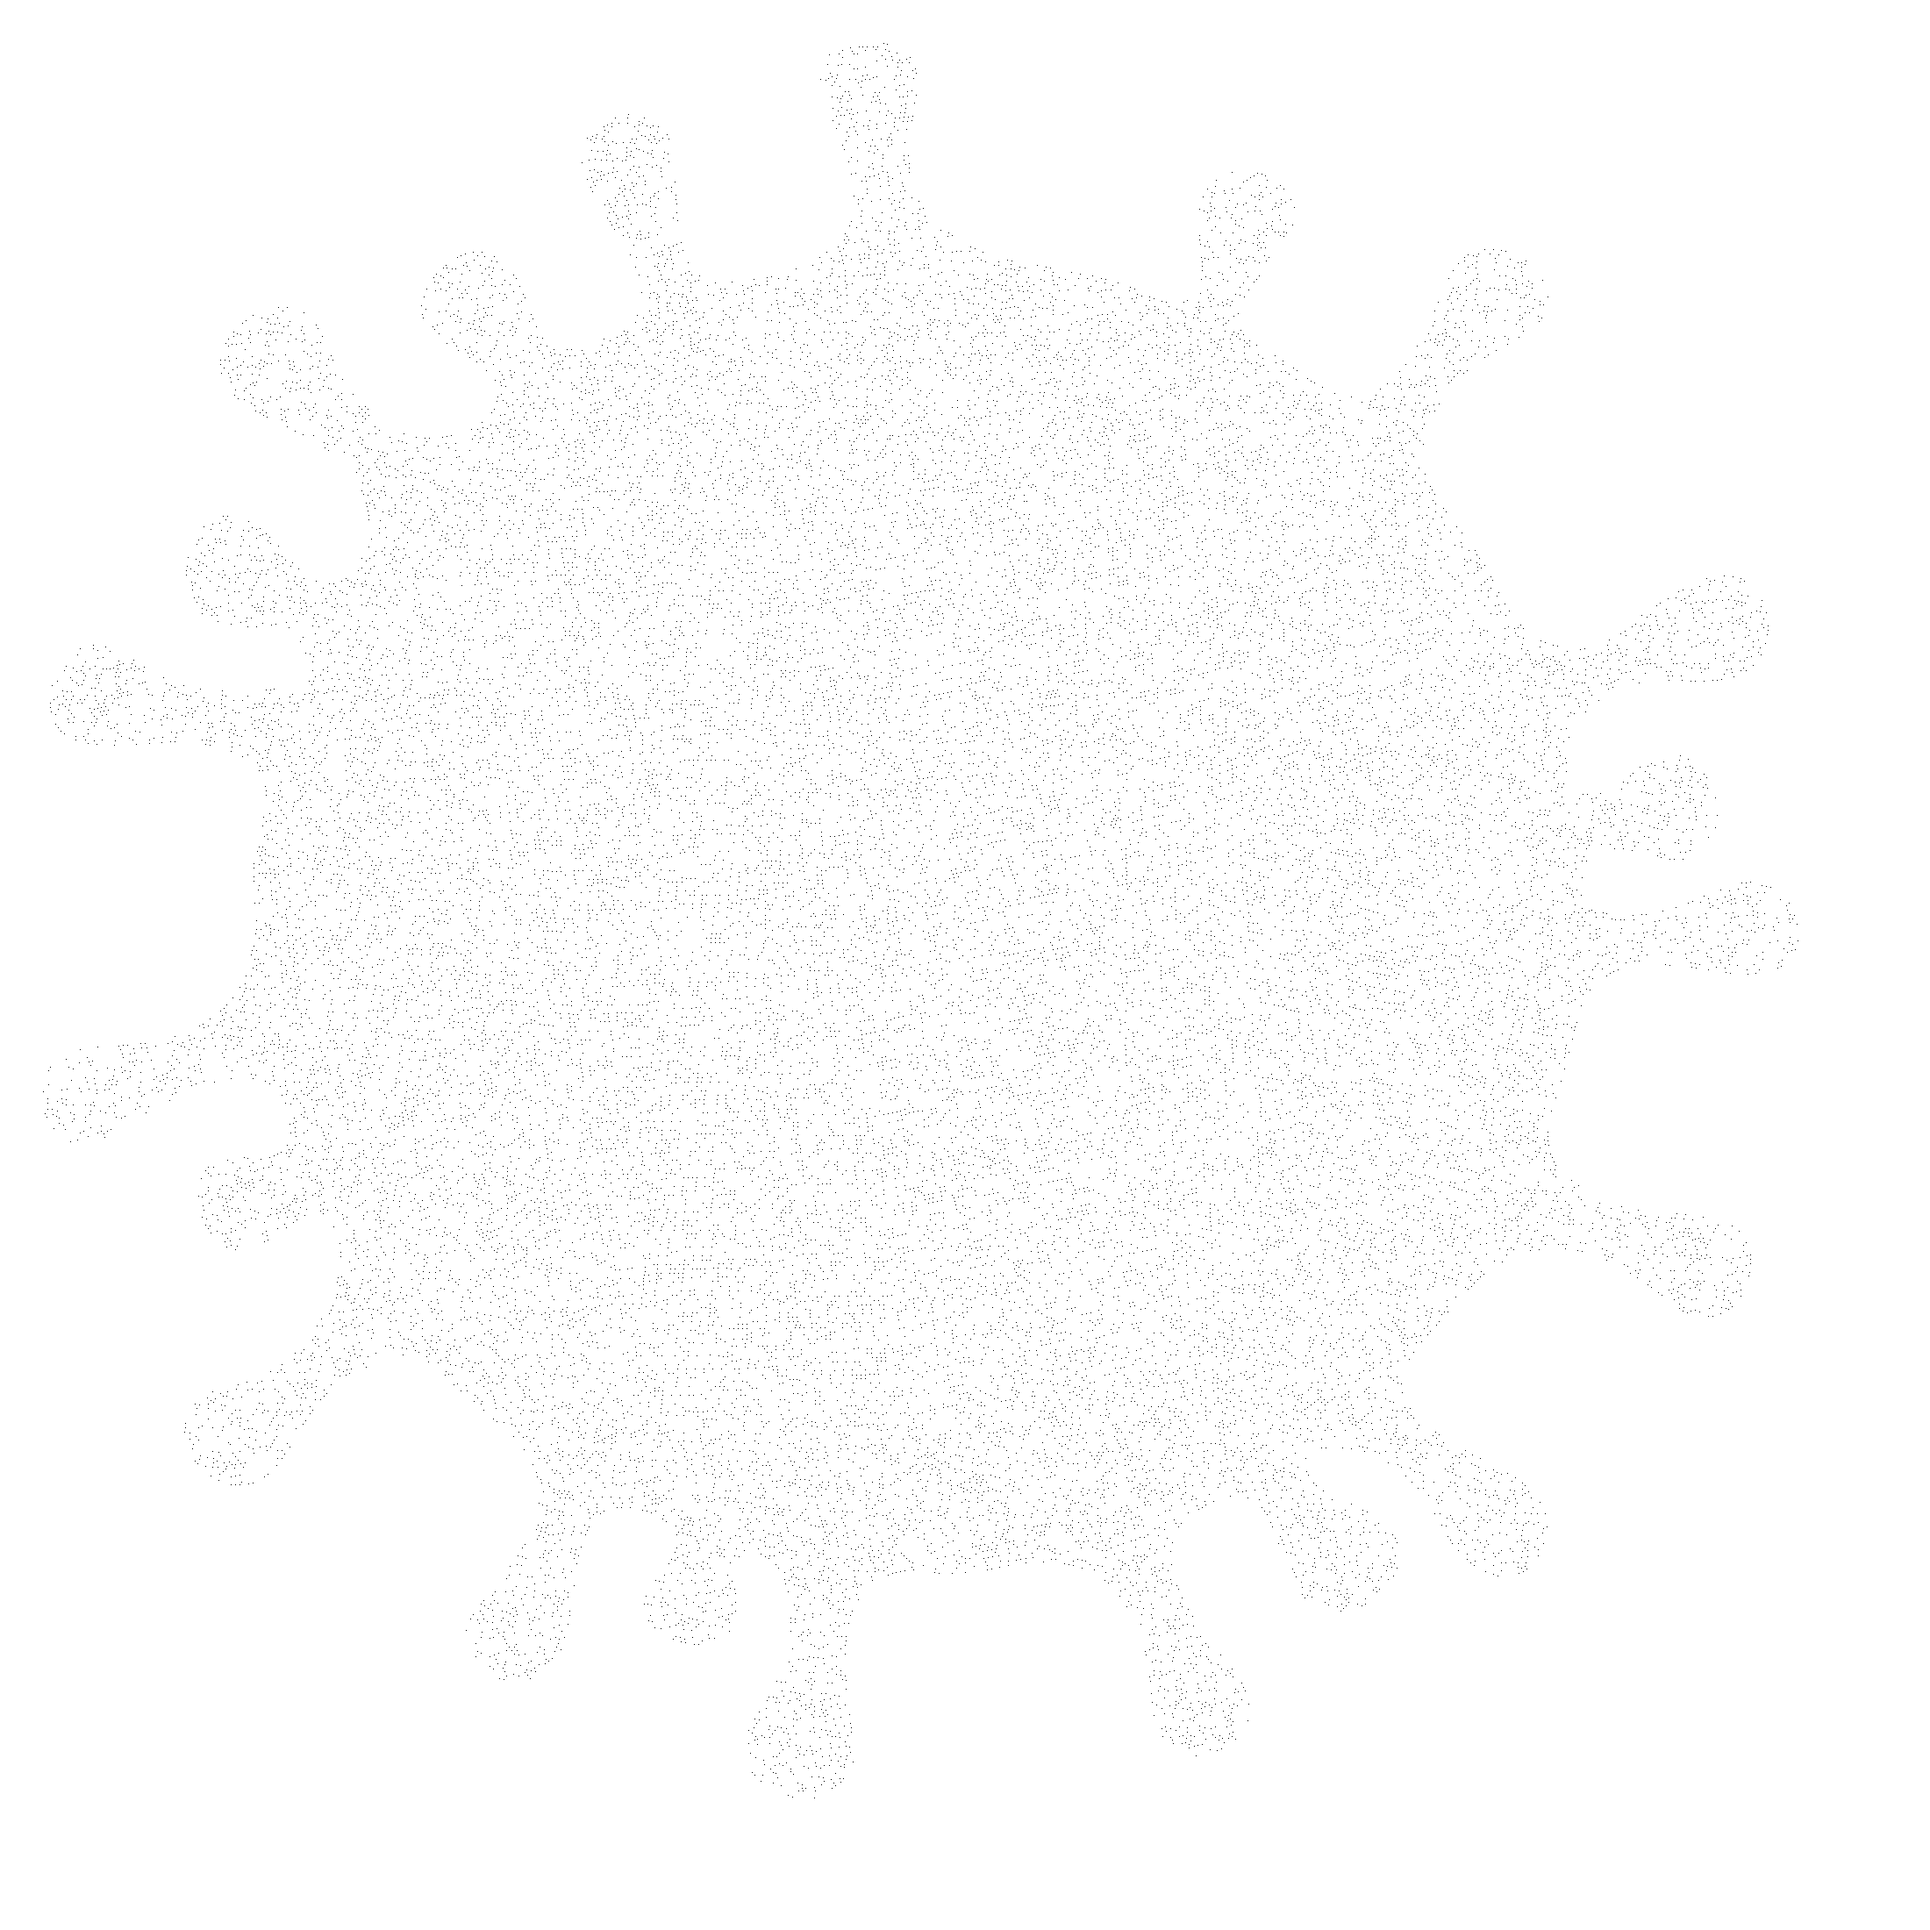
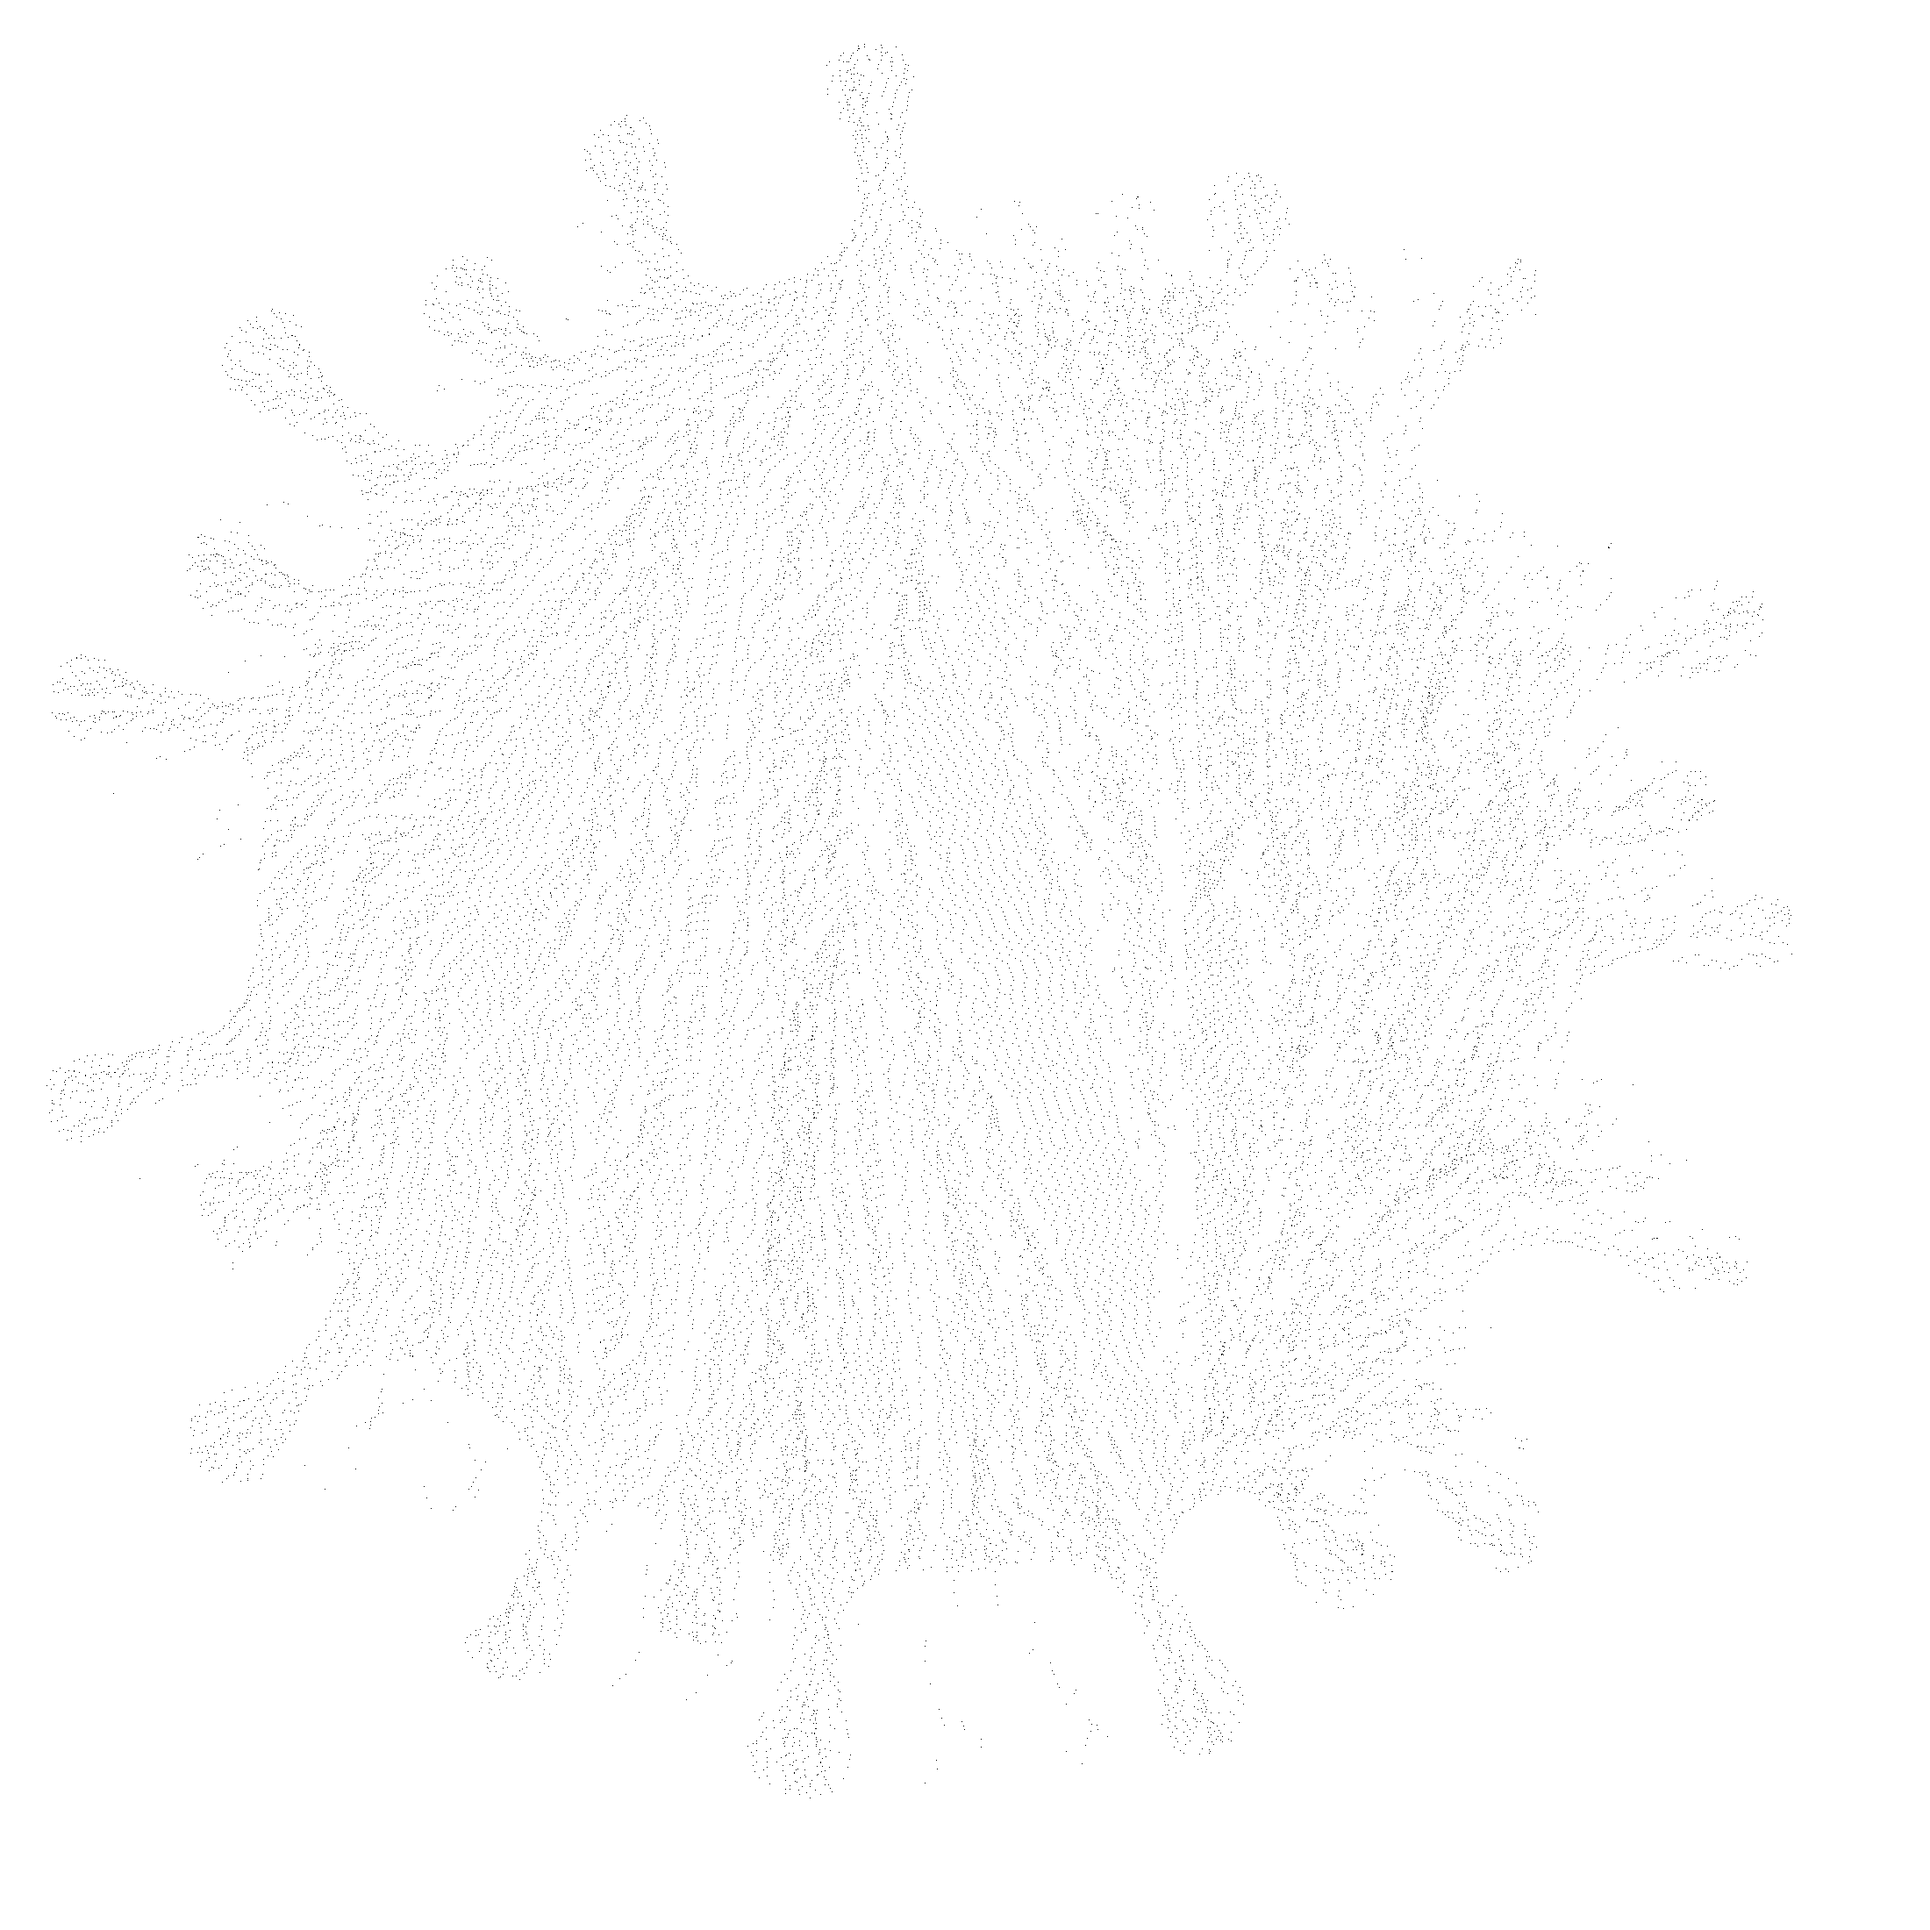
triangle center

diff --git a/generator/dots_remover.py b/generator/dots_remover.py
@@ -10,13 +10,29 @@ f = open("dots.txt", "r")
 for l in f.readlines():
     _xy += [tuple(map(float, l.split(' ')[:2]))]
 
-for _ in range(len(_xy)-wanna_dots):
-    _xy.pop(random.randint(0, len(_xy)))
+print("Parsed points: {0}".format(len(_xy)))
+# for _ in range(len(_xy)-wanna_dots):
+#     _xy.pop(random.randint(0, len(_xy)-1))
+
+for_size = (len(_xy)//3)*3
+print(for_size)
+__xy = []
+for i in range(0, for_size, 3):
+    a = _xy[i]
+    b = _xy[i+1]
+    c = _xy[i+2]
+    __xy += [((a[0]+b[0]+c[0])/3, (a[1]+b[1]+c[1])/3)]
+
 
 draw.point(
-    xy= _xy,
+    xy= __xy,
     fill='black'
 )
+# r = 2
+# for x, y in _xy:
+#     temp = (x-r,y-r,x+r,y+r)
+#     draw.rectangle(xy=temp, fill='red')
+
 # print(_xy)
 im.show()
 im.save('dots_remover_result.png', quality=95)
